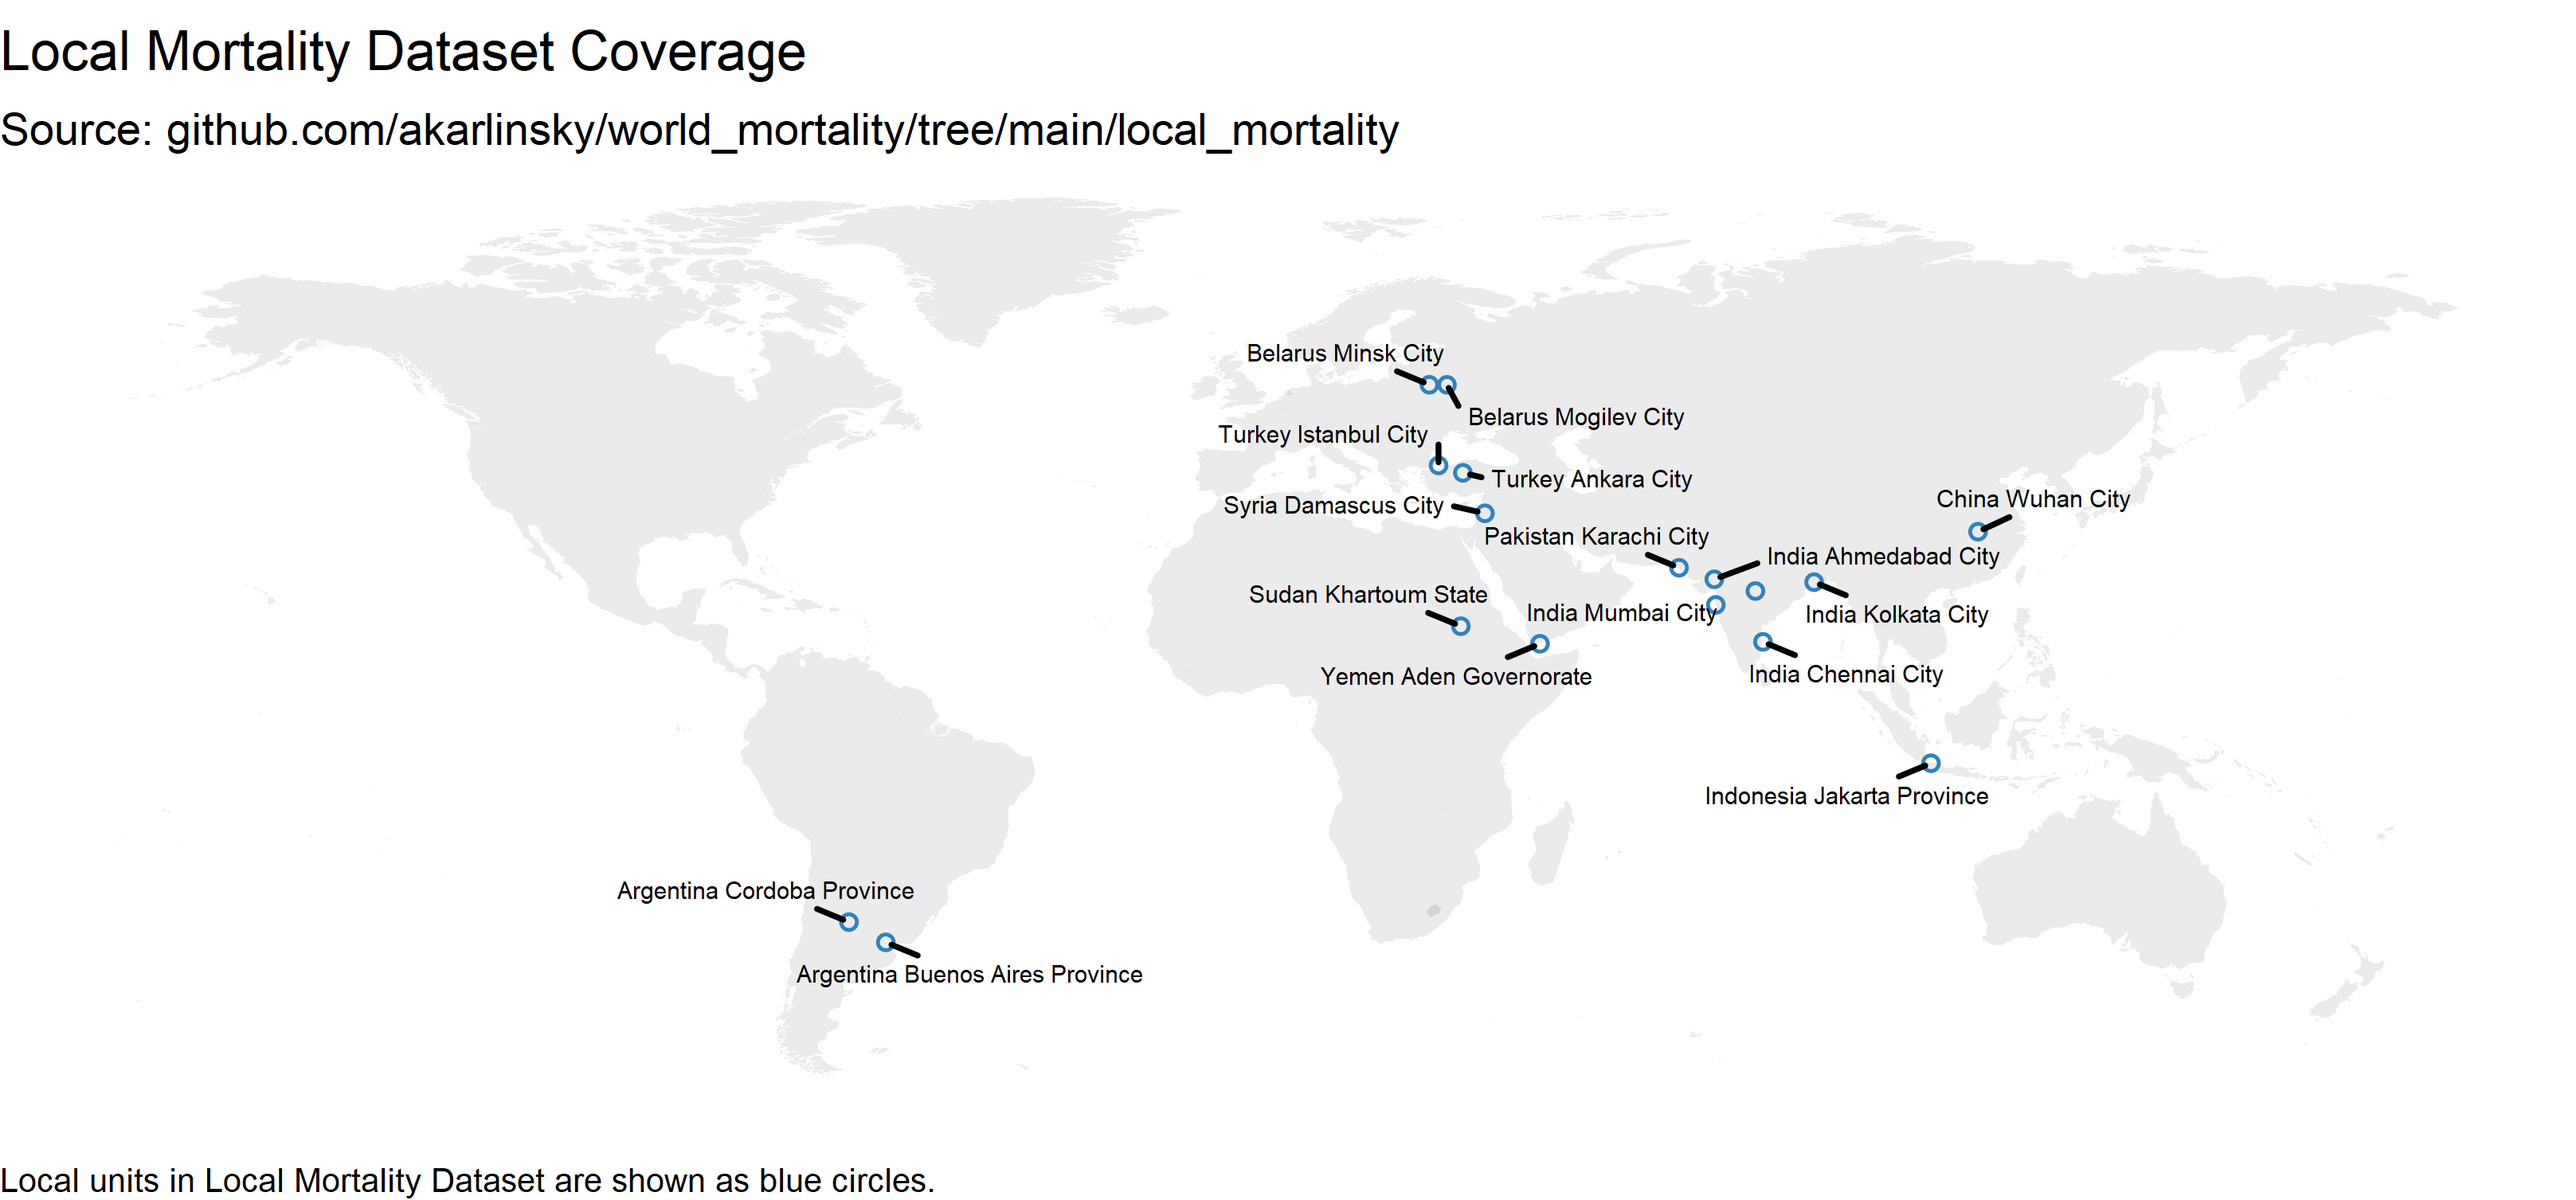
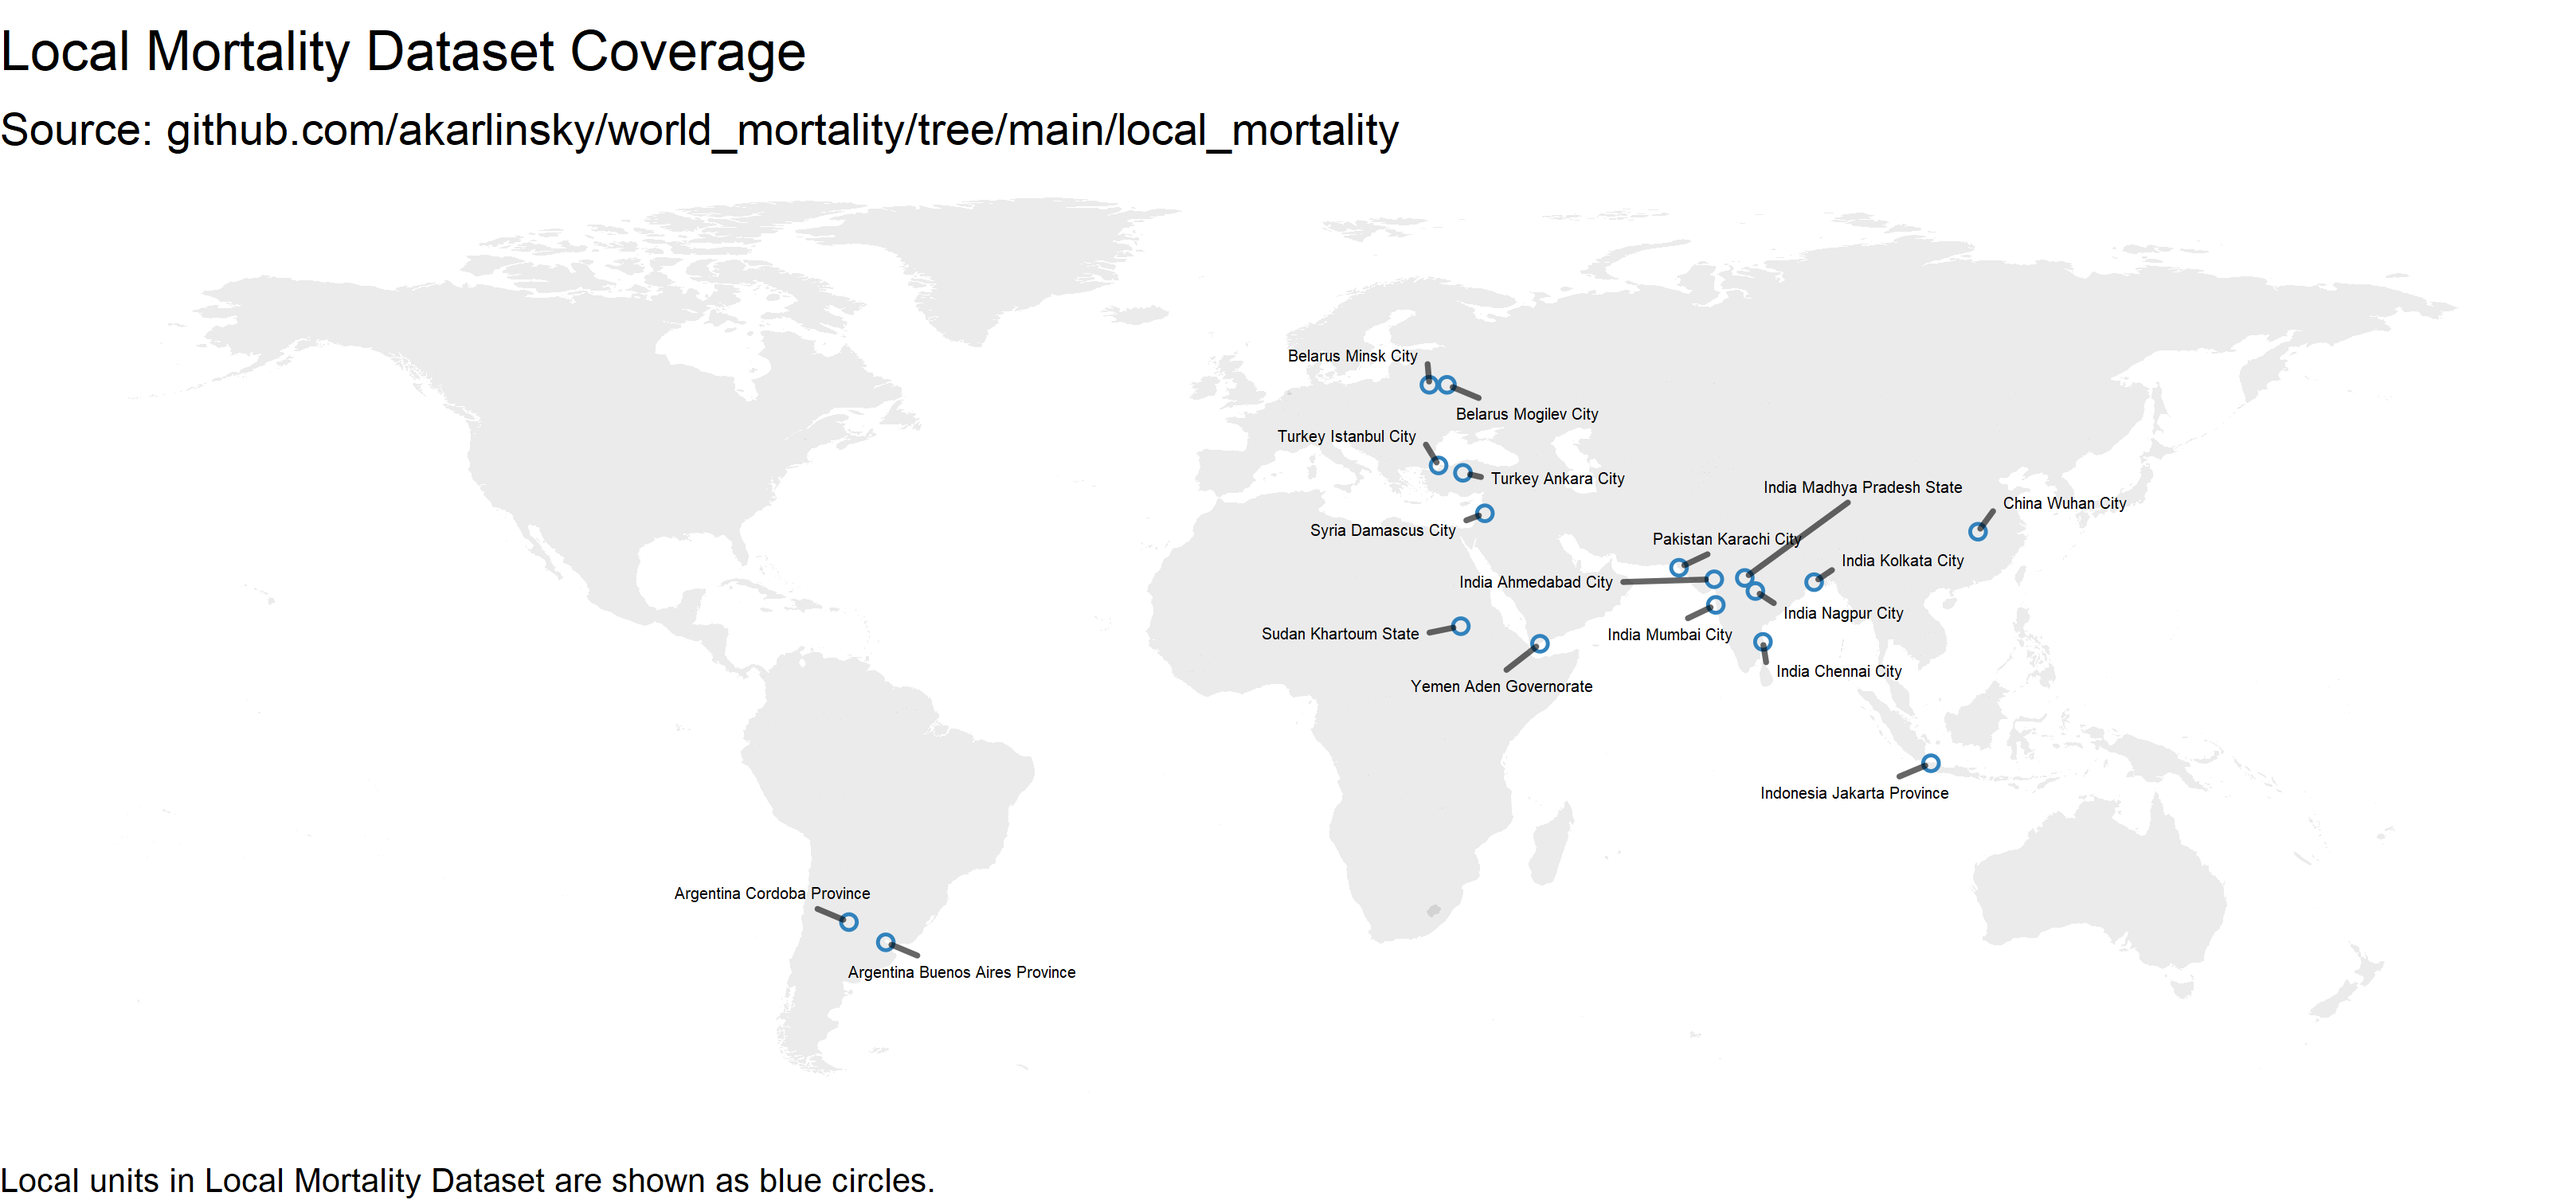
Local Mortality Update
New: Madhya Pradesh State (see README for source).

- Revisions: India,Chennai City

diff --git a/local_mortality/README.md b/local_mortality/README.md
@@ -5,7 +5,7 @@ Local is any sub-national unit - whether state, province, region, city etc.
 Local Mortality is a sister-project of [World Mortality](https://github.com/akarlinsky/world_mortality), Priority is given to local mortality information from countries which are not present in World Mortality or have very partial information on World Mortality.   
 
 Sources vary by local unit, see below.   
-We are currently providing data for 17 Local Units from 10 Countries.   
+We are currently providing data for 18 Local Units from 10 Countries.   
 We welcome any contributions.   
 
 ![Local Mortality coverage](local_mortality_map.png)
@@ -56,6 +56,12 @@ https://www.reuters.com/article/us-health-coronavirus-india-casualties-idUSKBN24
 Daily Registered Deaths in Chennai: https://github.com/elseasama/covid19chennai/tree/gh-pages/chennai_data, a scrape of [Chennai Municipal Corporation data](https://chennaicorporation.gov.in/gcc/online-services/death-certificate/).
 
 Information from [Rukmini S](https://twitter.com/Rukmini).
+
+### Madhya Pradesh State
+Madhya Pradesh Civil Registration System, as reported in: https://scroll.in/article/996772/madhya-pradesh-saw-nearly-three-times-more-deaths-than-normal-after-second-wave-of-covid-19-struck
+
+Information from [Rukmini S](https://twitter.com/Rukmini).
+
 
 ### Mumbai City
 https://www.indiaspend.com/how-india-could-fill-in-the-blanks-on-excess-mortality/
